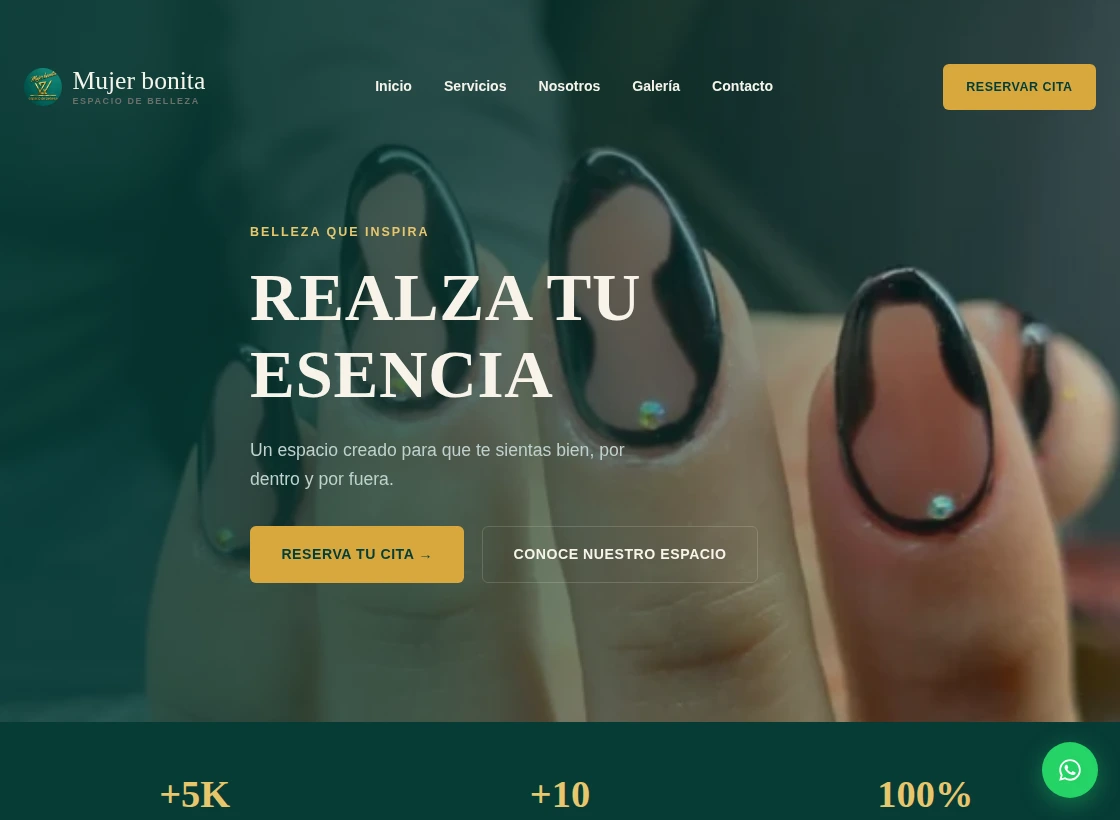
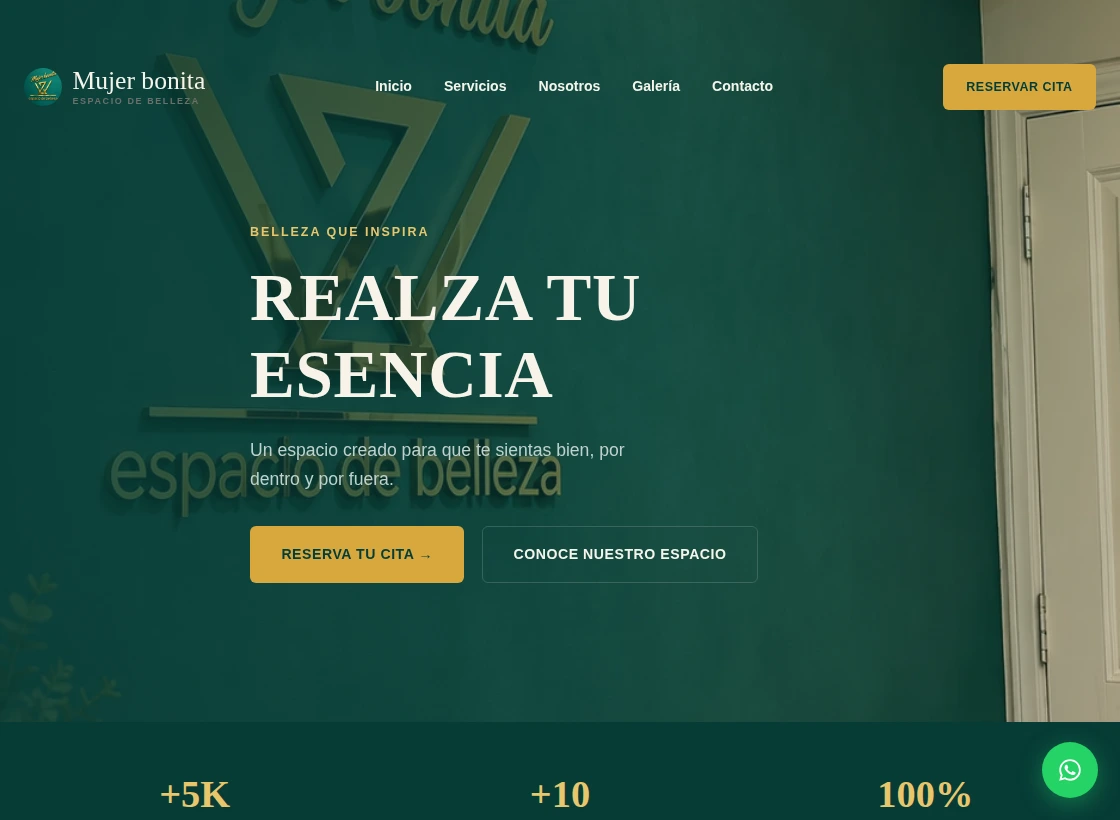
Use the real lobby photo as the hero background
The client sent the actual lobby photo (938x1677, sharp) — real
sofa, marble side table, and the wall-mounted logo — matching what
the original brief asked for all along. This replaces three low-res
placeholder attempts (an AI-generated facial promo, a logo render,
and a brand-values card) that were tried in this session and all
looked soft at full-bleed hero size.

Removed the two rejected background images (logo-wall.webp,
brand-card.webp) since neither is referenced anymore.

Claude-Session: https://claude.ai/code/session_013XBzPxBSocPS3kVrUUHA4k

diff --git a/demo/mujerbonita.html b/demo/mujerbonita.html
@@ -113,7 +113,7 @@
   /* ── hero ── */
   .hero { position: relative; min-height: 88vh; display: flex; align-items: center; overflow: hidden; }
   .hero-bg { position: absolute; inset: 0; z-index: 0; }
-  .hero-bg img { width: 100%; height: 100%; object-fit: cover; object-position: 30% 35%; }
+  .hero-bg img { width: 100%; height: 100%; object-fit: cover; object-position: 30% 32%; }
   .hero-bg::after { content: ""; position: absolute; inset: 0; background: linear-gradient(100deg, rgba(7,59,54,.92) 0%, rgba(7,59,54,.72) 40%, rgba(7,59,54,.4) 72%, rgba(7,59,54,.22) 100%); }
   .hero-inner { position: relative; z-index: 1; padding-top: 5rem; }
   .hero-copy { max-width: 620px; animation: heroRise .7s ease both; }
@@ -348,7 +348,7 @@
   </div>
 
   <section id="top" class="hero">
-    <div class="hero-bg"><img src="/assets/demo-mujerbonita/logo-wall.webp" alt="Logo de Mujer Bonita en dorado sobre pared verde esmeralda" /></div>
+    <div class="hero-bg"><img src="/assets/demo-mujerbonita/lobby-real.webp" alt="Recepción de Mujer Bonita con el logo real en la pared" /></div>
     <div class="wrap hero-inner">
       <div class="hero-copy">
         <span class="eyebrow on-dark">Belleza que inspira</span>
